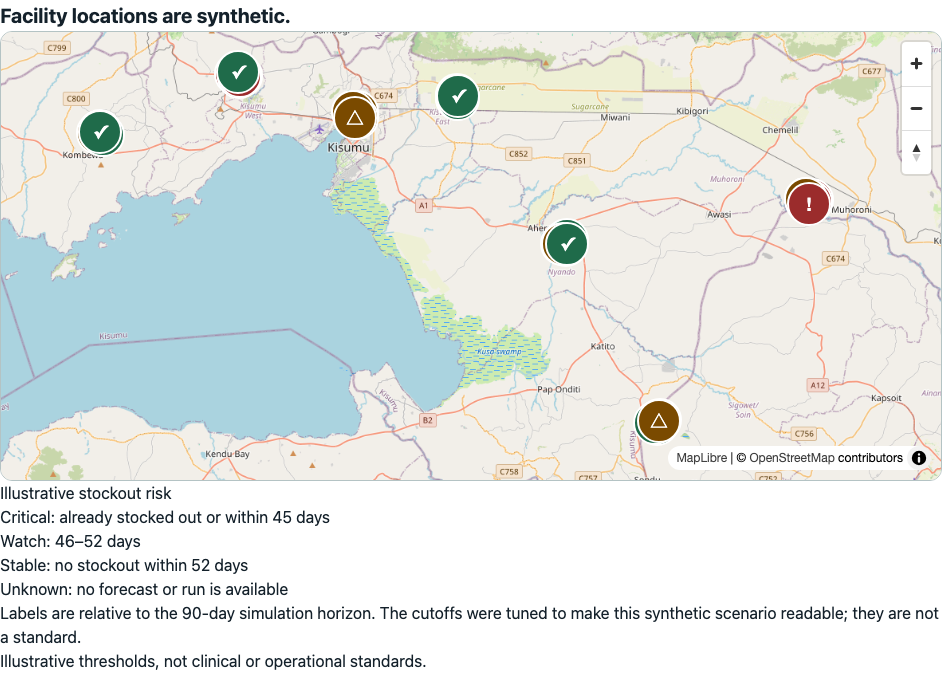
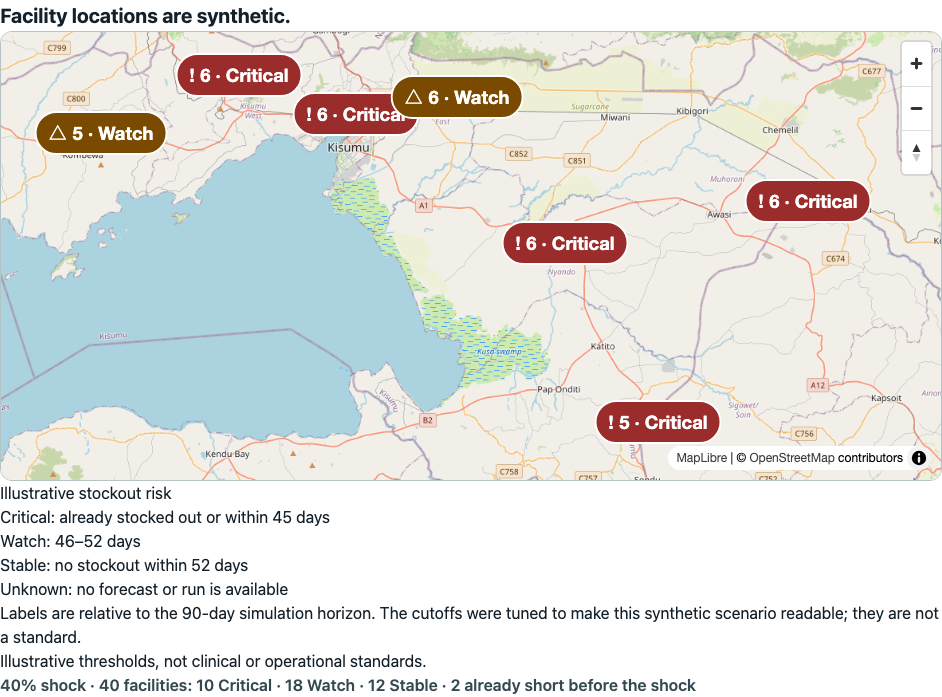
docs: show clustered map and counts in README and progress

diff --git a/docs/PROGRESS.md b/docs/PROGRESS.md
@@ -10,6 +10,8 @@ Gitleaks v8.30.1 via Docker scanned 113 commits across all refs and a copy of tr
 
 ## Phase 3: Frontend — current
 
+- Phase 3 map clustering, 2026-11-08 (`da922f1`…): the facility map groups markers within 48 px into one button per group showing a symbol plus count and worst status (“6 · Critical”); its accessible name starts with that text and adds the facility count, the status breakdown and “Press Enter to zoom in.” Enter or a click fits the group's members (max zoom 18) and moves focus to the group's first facility, or to its smaller cluster on narrow screens. Individual markers keep their existing labels, the synthetic-location notice and the no-coordinate fallback. A counts line under the legend always shows Critical, Watch, Stable, Unknown when present, and how many were already short before the shock, from the same `risksForRun` output. Fixes found by the browser suite: cluster names now contain their visible text (axe `label-content-name-mismatch`); the map refits on resize only until the user zooms or pans, so a cluster zoom is not undone; padding now covers cluster pills (left 80, right 112 px); the map container has `role="group"` for its label (axe `aria-prohibited-attr` before tiles load). The fixture now records compact backend runs at 0/20/40/100% (355 KB). Vitest 121 passed, including counts 2/0/38, 2/5/33, 10/18/12 and 40/0/0 with 2 already short, and cluster worst statuses at each shock. The demo rate limit is now 1,200 per minute (demo-down restores 60): **Playwright 60/60** at four widths in one run with no 429s, then 56/56 again without the canary. New browser checks: summary counts at 0/20/40/100% match the backend, keyboard zoom into a cluster then select the focused facility, axe at four widths. Lighthouse was not rerun this round. README map screenshot recaptured and limitations updated. Open: clusters show the worst status (5 of 7 read Critical at 40%), and two cluster labels overlap slightly near Kisumu city.
+
 - Phase 3 risk cutoffs, 2026-11-08 (commits `95b8384`…): measured three candidates on real version 5 runs (seed 42) at 0/20/40/100%; none met the user's criteria (Stable at 40% was 3 or fewer). The user approved Critical ≤45, Watch 46–52, Stable >52, which gives 2/0/38, 2/5/33, 10/18/12 and 40/0/0 Critical/Watch/Stable. `RISK_THRESHOLDS` remains the only definition; the legend adds that labels are relative to the 90-day horizon and the cutoffs were tuned for readability and are not a standard, keeping “illustrative thresholds, not clinical or operational standards”. Facilities in the run's pre-shock or no-shock stockouts (F001, F003) show “Already short before the shock” in the marker tooltip and facility panel. The map fits all markers with padding that clears the zoom and attribution controls and refits on resize (before: five markers at 1280 px sat under the attribution). The “Do this first” intro is two lines at 390 px and one line from 768 px, with assumptions and targets under “How these options are built”; ranked-panel placeholder heights were re-measured, adding a 1280 px step. Vitest 113 passed. After `demo-down.sh` and `demo-up.sh` on the new build: **Playwright 56 tests**, 53 passed in the full run and the 3 that failed on HTTP 429 rate limits passed on rerun (new checks: every marker inside the map and clear of controls at four widths; intro within two lines). **Lighthouse page load:** `/` and `/kisumu` 1.00 performance, 1.00 accessibility, 0.96 best practices. **Interactive flow (one run):** performance 1.00, CLS 0.001, TBT 30 ms, INP 100 ms. The rendered map at 40% counted 10 Critical, 18 Watch and 12 Stable markers, matching the backend computation. README screenshots recaptured (ranked fix, shock card, mobile tour, new map at 40%) and numbers updated. Open: markers within a cluster overlap at county zoom, so the map shows about seven visible markers; the full suite now exceeds the 600-per-minute demo limit at times; Swahili strings for the new labels need review. Session left running at http://localhost:3300/.
 
 - Phase 3: changed the shared illustrative risk cutoffs (`RISK_THRESHOLDS`, the only definition; legend and marker tooltips derive from it) to Critical ≤45 days, Watch 46–75, Stable >75, keeping the “illustrative thresholds, not clinical or operational standards” wording; data assumptions updated. Vitest 109 passed with boundary tests at 45/46/75/76 and the Swahili legend. **Spread check on real version 5 backend runs** (seed 42, classified with the app's `risksForRun`): 0% — 2 Critical, 38 Stable; 20% — 2 Critical, 17 Watch, 21 Stable; 40% — 10 Critical, 28 Watch, 2 Stable; 100% — 40 Critical. 0% is not all Stable because the planted pre-shock cases are Critical by design (SYN-KE-042-F001 opens with 0 units of SYN-C01; SYN-KE-042-F003 runs out of SYN-C01 on day 6). At 40% only 2 of 40 facilities stay Stable. Reported to the user before continuing; map bounds, the shorter “Do this first” intro, Playwright, Lighthouse and README screenshots are on hold pending their decision.

diff --git a/README.md b/README.md
@@ -35,7 +35,7 @@ All screens show synthetic data; every number is illustrative and unvalidated.
 | ![Guided demo on a phone](docs/screenshots/readme-tour-mobile-390.png) | ![Bin-card capture awaiting human confirmation](docs/screenshots/readme-capture-confirm-390.png) |
 | Guided demo at 390 px | Bin-card capture: nothing is saved until “Confirm and save” |
 | ![Kisumu facility map at a 40% shock with the risk legend](docs/screenshots/readme-map-40-1280.png) | |
-| Facility map at 40%: 10 Critical, 18 Watch, 12 Stable (overlapping markers per cluster) | |
+| Facility map at 40%: clusters show count and worst status; the line under the legend gives 10 Critical, 18 Watch, 12 Stable | |
 
 ## Local quickstart
 
@@ -92,7 +92,7 @@ See [agent rules](AGENTS.md), [current progress](docs/PROGRESS.md), [design appr
 - **Language.** Swahili strings, and the English-only optimizer explanation, need native-speaker review.
 - **No production sign-in.** The demo uses a server-side proxy with a privileged synthetic token, allowed only in local or staging environments behind external access control.
 - **Risk cutoffs are tuned, not a standard.** Map labels use Critical within 45 days, Watch 46–52 and Stable beyond 52. These cutoffs were tuned to make this synthetic scenario readable, are relative to the 90-day simulation horizon, and are not a standard. A facility takes the status of its worst commodity.
-- **Map markers overlap.** Each invented cluster holds five or six facilities within about 300 m, so at county zoom their markers stack and only the top one is visible; zoom in or use the facility list.
+- **Map clusters show the worst status.** At county zoom, nearby facilities share one cluster labeled with its count and worst status (for example “6 · Critical”), so most clusters read Critical at 40% even though 10 of 40 facilities are Critical; the counts line under the legend gives the full split. Enter or a click zooms into a cluster (narrow screens may need two steps). Cluster labels can overlap slightly near Kisumu city.
 - **Performance and design gaps.** The interactive Lighthouse flow meets its performance budget. Its layout shift ranged from 0.006 to 0.203 in earlier runs; the latest run, after the shock card change, measured 0.001, but one run does not show the issue is resolved. The flow is not in CI. Bottom navigation, several design states and screenshot review against the approved design are outstanding. See [progress](docs/PROGRESS.md) and [Phase 3 notes](docs/phases/3.md).
 
 ## Next steps

diff --git a/CHANGELOG.md b/CHANGELOG.md
@@ -1,5 +1,7 @@
 # Changelog
 
+- Recaptured the README facility-map screenshot with clusters and the counts line, and updated the map limitation.
+
 - The facility map groups nearby facilities into one keyboard-accessible cluster per area at low zoom, labeled with the count and worst status (for example “6 · Critical”); activating a cluster zooms in and separates it. A line under the legend always shows Critical, Watch and Stable counts and how many facilities were already short before the shock.
 
 - The local demo session raises the per-subject rate limit to 1,200 requests per minute (from 600) so the full browser suite fits; `demo-down.sh` still restores 60.
